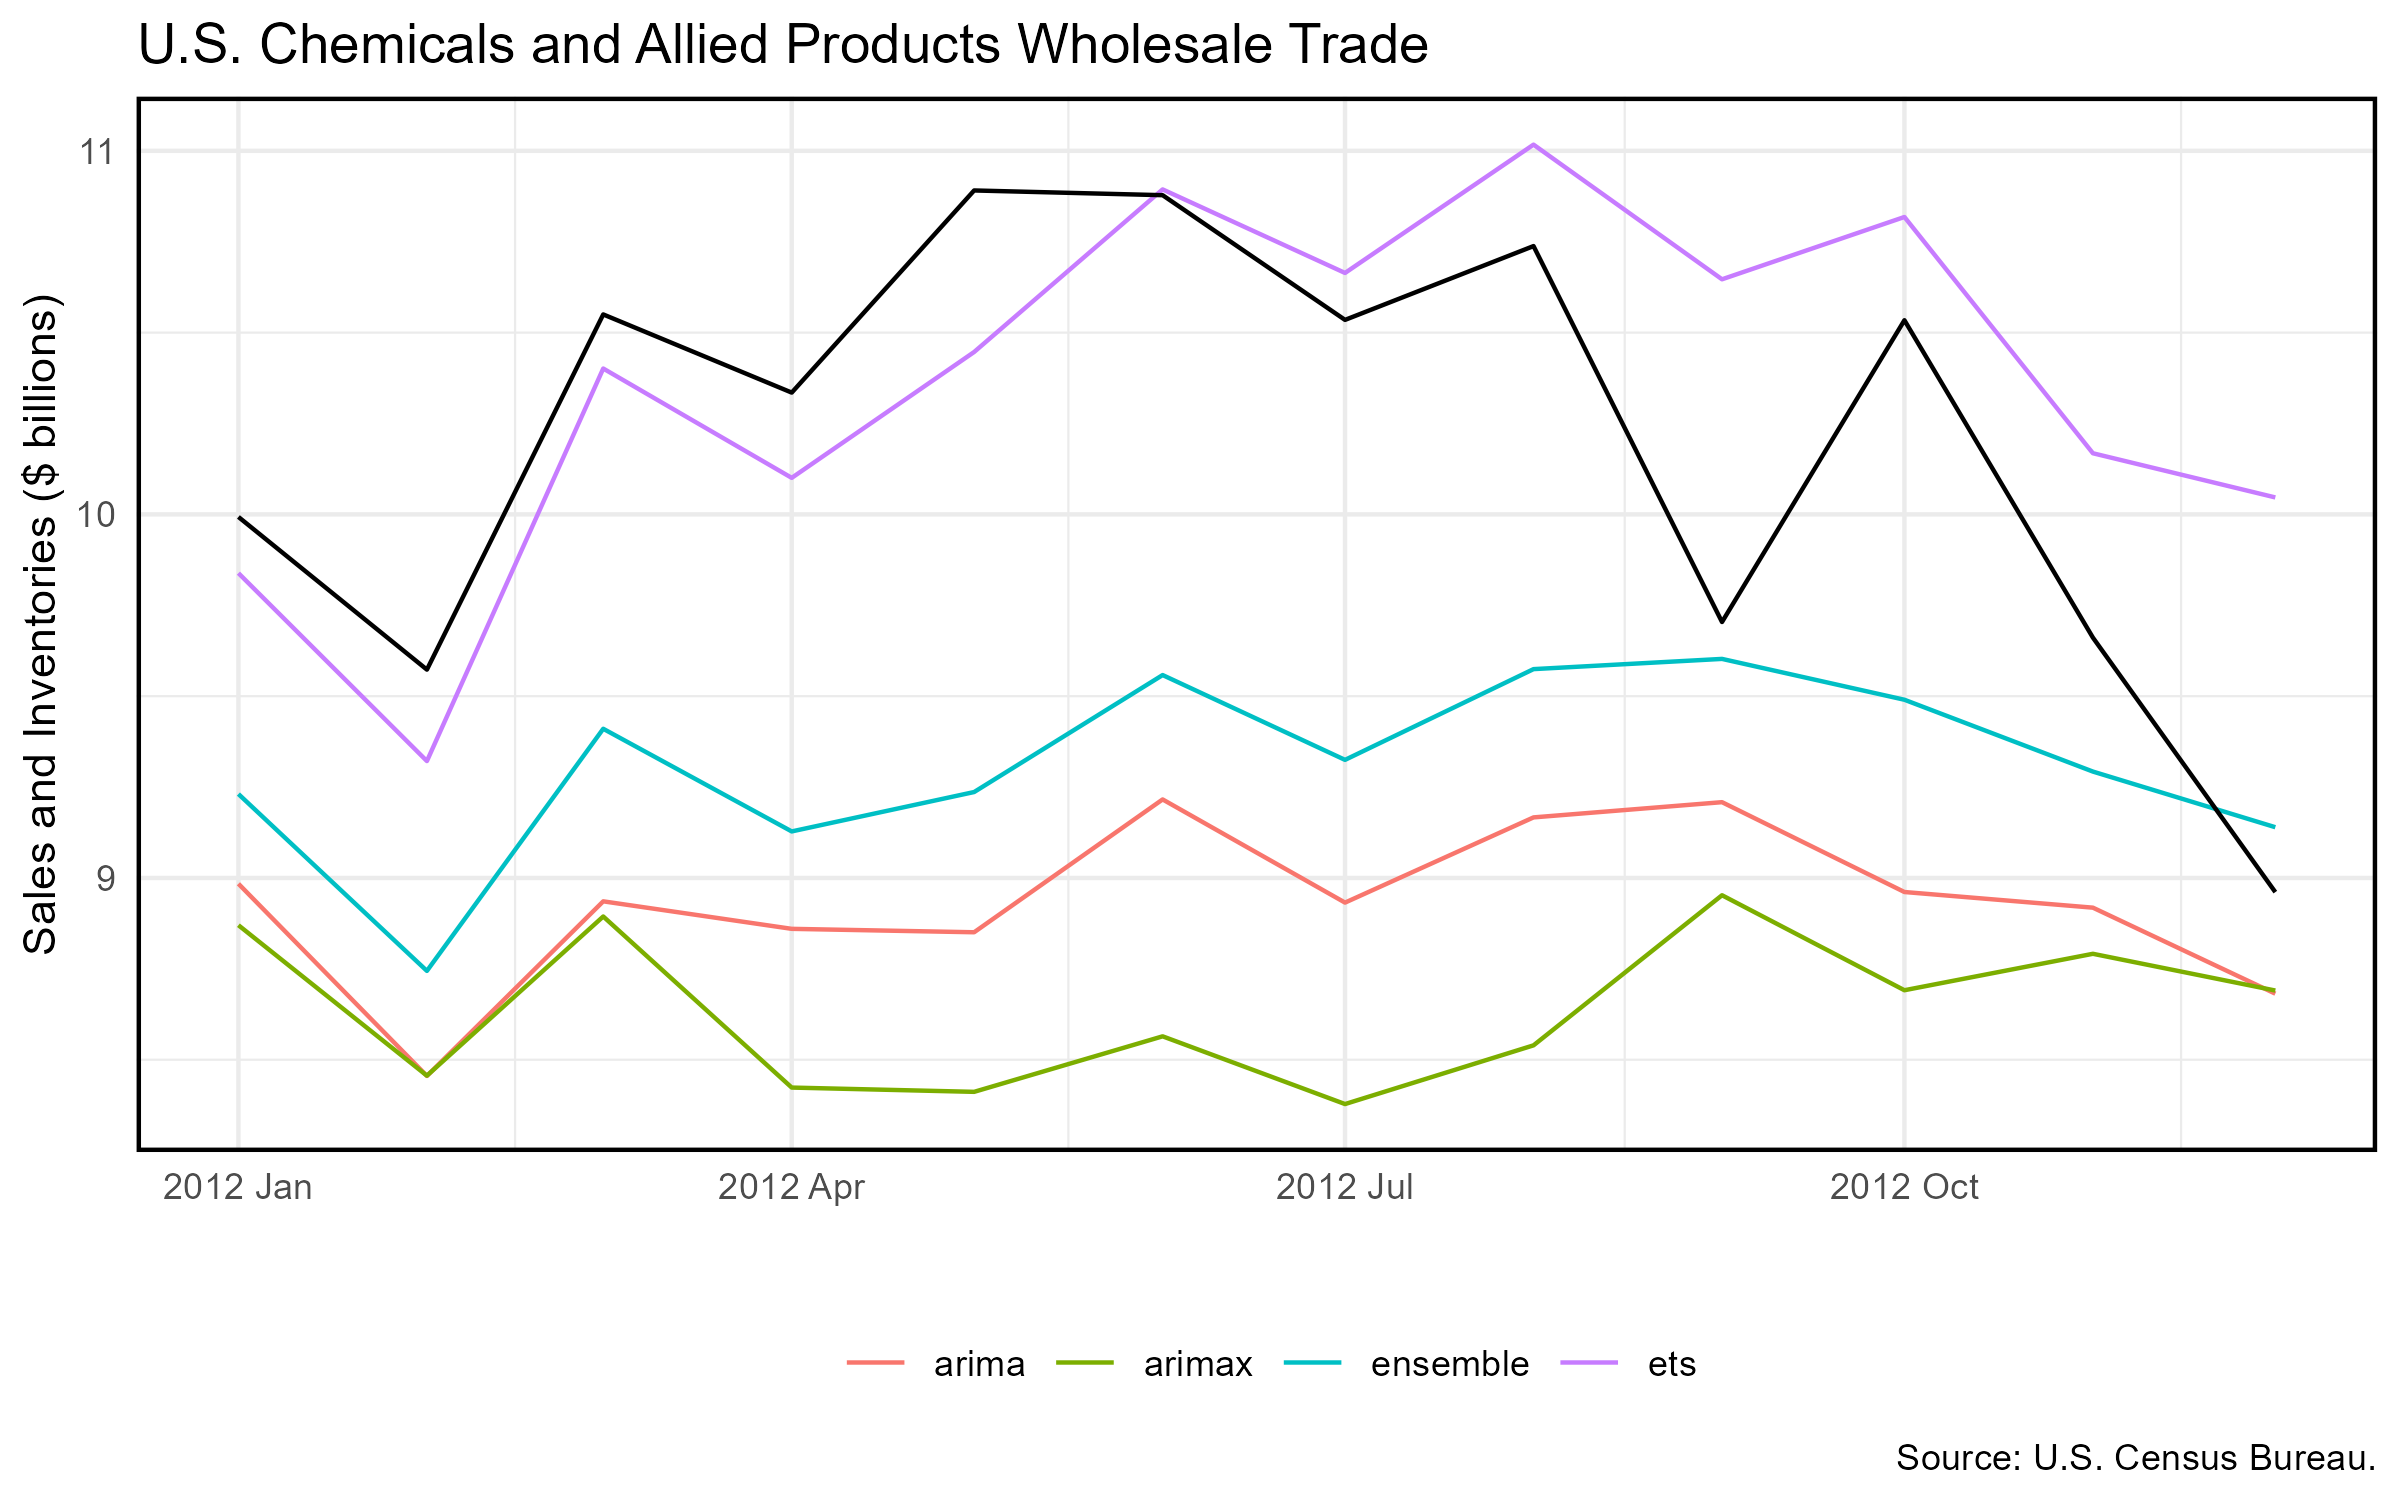
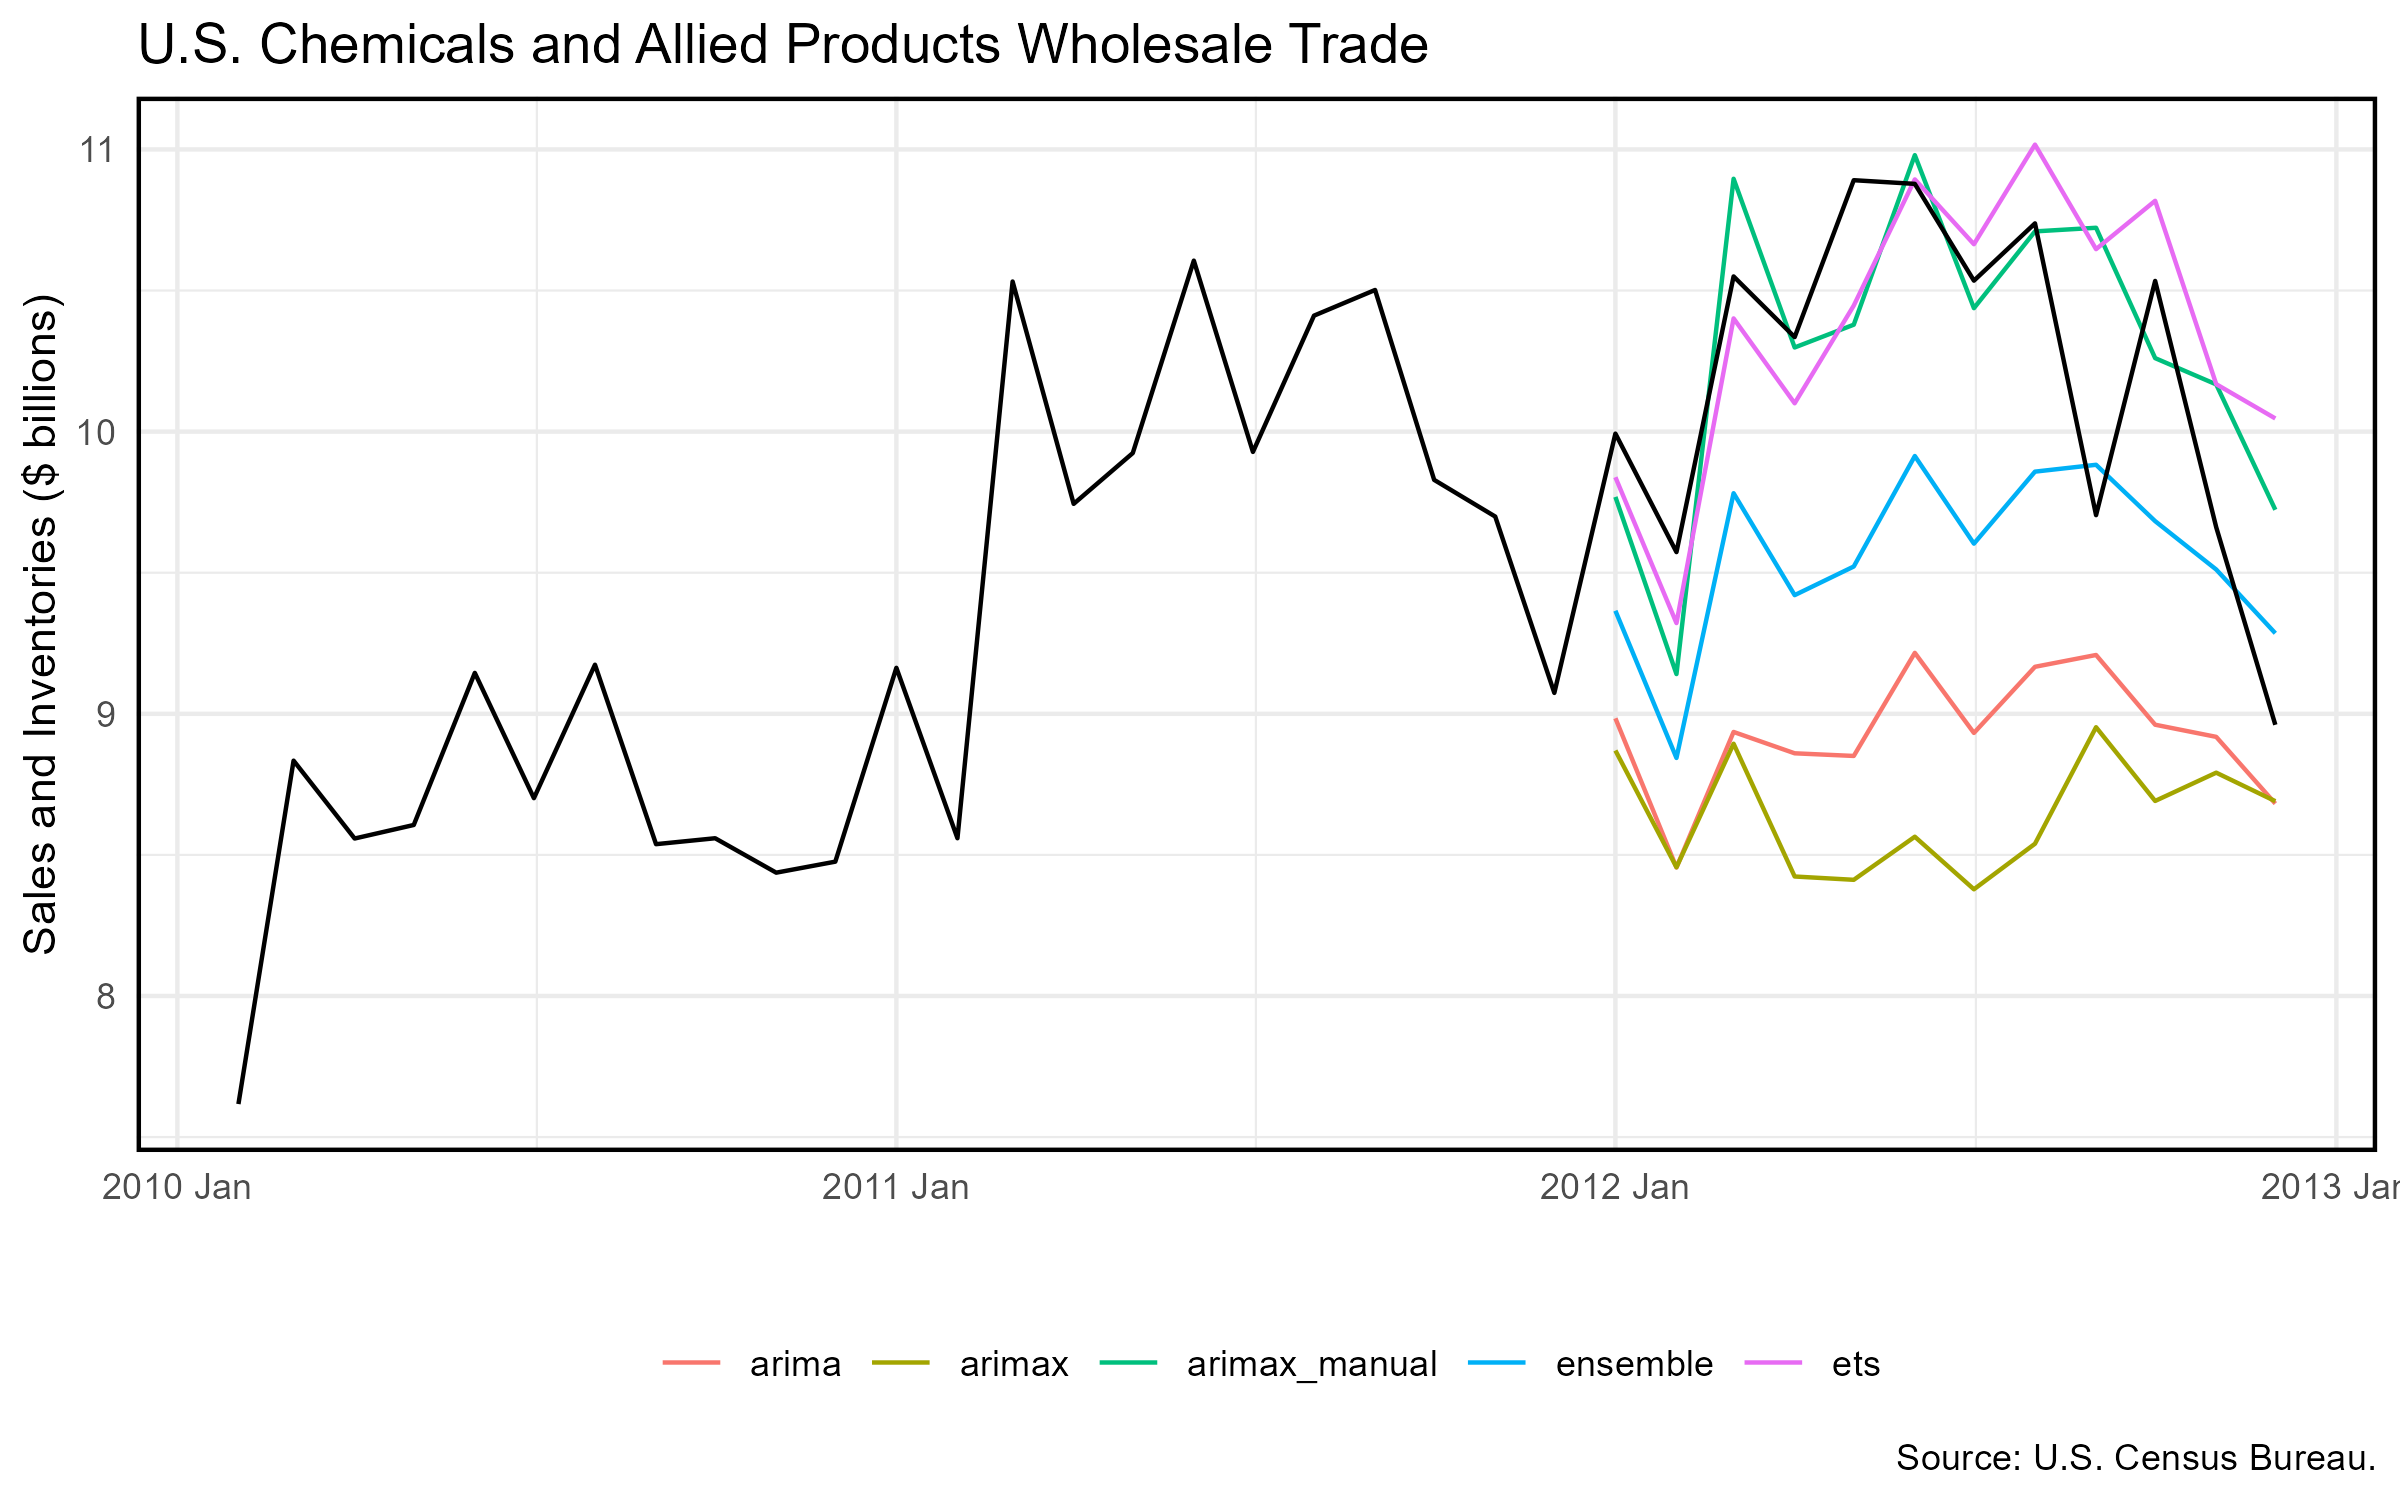
update code

diff --git a/analysis/output/tables/Accuracy Table.tex b/analysis/output/tables/Accuracy Table.tex
@@ -1,0 +1,24 @@
+
+% Table created by stargazer v.5.2.3 by Marek Hlavac, Social Policy Institute. E-mail: marek.hlavac at gmail.com
+% Date and time: Mon, Apr 07, 2025 - 12:08:57 PM
+\begin{table}[!htbp] \centering 
+  \caption{} 
+  \label{} 
+\begin{tabular}{@{\extracolsep{5pt}} cccccccccc} 
+\\[-1.8ex]\hline 
+\hline \\[-1.8ex] 
+.model & .type & ME & RMSE & MAE & MPE & MAPE & MASE & RMSSE & ACF1 \\ 
+\hline \\[-1.8ex] 
+ensemble & Training & -0.01 & 0.39 & 0.31 & -0.25 &  3.56 & 0.24 & 0.26 &  0.02 \\ 
+arimax & Training &  0.01 & 0.42 & 0.33 & -0.09 &  3.76 & 0.25 & 0.28 &  0.00 \\ 
+ets & Training & -0.05 & 0.43 & 0.33 & -0.79 &  3.92 & 0.26 & 0.29 & -0.09 \\ 
+arima & Training &  0.02 & 0.43 & 0.34 &  0.05 &  3.90 & 0.26 & 0.29 &  0.04 \\ 
+arimax\_manual & Training & -0.01 & 0.51 & 0.38 & -0.16 &  4.36 & 0.29 & 0.34 &  0.03 \\ 
+arimax\_manual & Test & -0.09 & 0.46 & 0.36 & -1.07 &  3.67 &  &  & -0.09 \\ 
+ets & Test & -0.17 & 0.49 & 0.37 & -1.82 &  3.81 &  &  &  0.50 \\ 
+ensemble & Test &  0.64 & 0.80 & 0.72 &  6.06 &  6.97 &  &  &  0.23 \\ 
+arima & Test &  1.27 & 1.37 & 1.27 & 12.17 & 12.17 &  &  &  0.21 \\ 
+arimax & Test &  1.56 & 1.70 & 1.56 & 14.94 & 14.94 &  &  &  0.36 \\ 
+\hline \\[-1.8ex] 
+\end{tabular} 
+\end{table} 

diff --git a/analysis/output/tables/Accuracy Table_diff.tex b/analysis/output/tables/Accuracy Table_diff.tex
@@ -1,0 +1,22 @@
+
+% Table created by stargazer v.5.2.3 by Marek Hlavac, Social Policy Institute. E-mail: marek.hlavac at gmail.com
+% Date and time: Mon, Apr 07, 2025 - 11:46:41 AM
+\begin{table}[!htbp] \centering 
+  \caption{} 
+  \label{} 
+\begin{tabular}{@{\extracolsep{5pt}} cccccccccc} 
+\\[-1.8ex]\hline 
+\hline \\[-1.8ex] 
+.model & .type & ME & RMSE & MAE & MPE & MAPE & MASE & RMSSE & ACF1 \\ 
+\hline \\[-1.8ex] 
+ensemble & Training &  0.01 & 0.43 & 0.35 &  28.82 & 116.86 & 0.73 & 0.72 & -0.10 \\ 
+arima & Training &  0.00 & 0.45 & 0.35 &  34.64 & 117.04 & 0.71 & 0.75 &  0.01 \\ 
+ets & Training &  0.00 & 0.46 & 0.38 &  26.48 & 151.60 & 0.78 & 0.77 & -0.33 \\ 
+arimax & Training &  0.01 & 0.51 & 0.41 &  25.34 & 136.66 & 0.86 & 0.85 &  0.03 \\ 
+ets & Test & -0.03 & 0.35 & 0.30 & 266.63 & 291.33 &  &  & -0.13 \\ 
+ensemble & Test & -0.02 & 0.50 & 0.39 & 281.72 & 295.88 &  &  & -0.39 \\ 
+arimax & Test & -0.06 & 0.57 & 0.41 & 273.85 & 293.11 &  &  & -0.53 \\ 
+arima & Test &  0.04 & 0.63 & 0.51 & 304.68 & 313.01 &  &  & -0.38 \\ 
+\hline \\[-1.8ex] 
+\end{tabular} 
+\end{table} 
